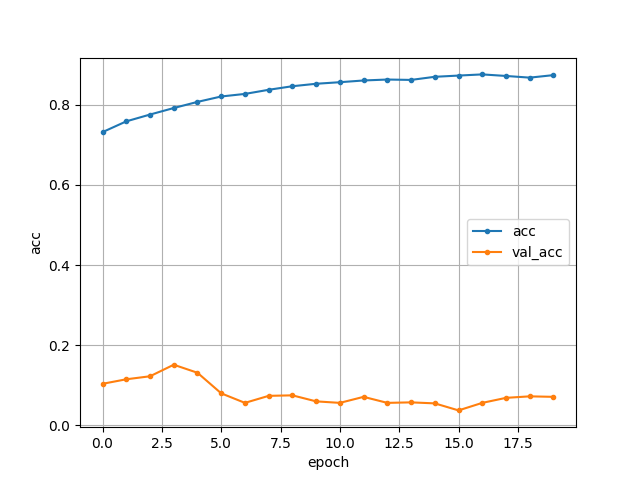
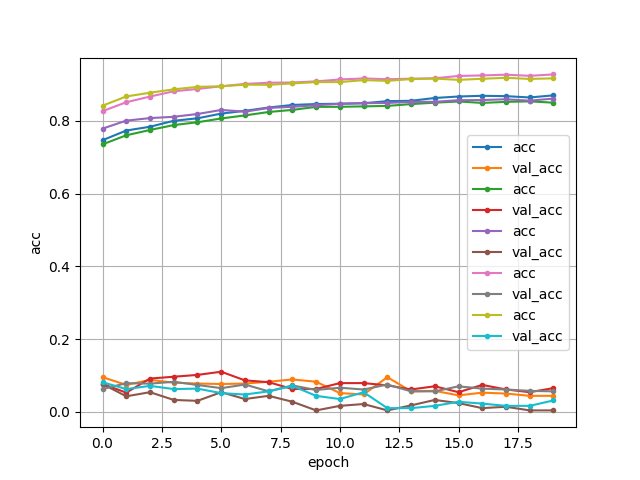
result file added

diff --git a/galaxy_learning_torch.py b/galaxy_learning_torch.py
@@ -46,7 +46,7 @@ IMG_CHANNEL = 4
 IMG_SIZE = 50
 
 BATCH_SIZE = 10
-NEPOCH = 600
+NEPOCH = 1000
 KFOLD = 5
 
 TEST_RATE = 0.2
@@ -376,7 +376,7 @@ if __name__ == '__main__':
         model = Net()
         if GPU:
             model.cuda()
-        optimizer = optim.Adam(model.parameters(), lr=0.00001)
+        optimizer = optim.Adam(model.parameters(), lr=0.0001)
 
         test_acc = []
         test_loss = []
@@ -387,7 +387,7 @@ if __name__ == '__main__':
             test_loss.append(tloss)
             test_acc.append(acc)
 
-        result_file = '{}_{}_{}'.format(split, fold_idx, RESULT_FILE)
+        result_file = '{}_{}_{}'.format(1, fold_idx, RESULT_FILE)
         result_file_path = os.path.join(RESULT_FILE_PATH, result_file)
         acc, matrix = predict(model, pr_test_loader, result_file_path)
         accuracy.append(acc.item())
@@ -410,10 +410,10 @@ if __name__ == '__main__':
         figR.set_xlim(0, NEPOCH)
         figR.grid(True)
 
-        graph_name = '{}_{}_result.png'.format(split, fold_idx)
+        #graph_name = '{}_{}_result.png'.format(split, fold_idx)
 
-        print('save result image:', graph_name)
-        fig.savefig(os.path.join('result', 'graph', graph_name))
+        #print('save result image:', graph_name)
+        #fig.savefig(os.path.join('result', 'graph', graph_name))
 
     print('mean', accuracy)
     #fig.show()
